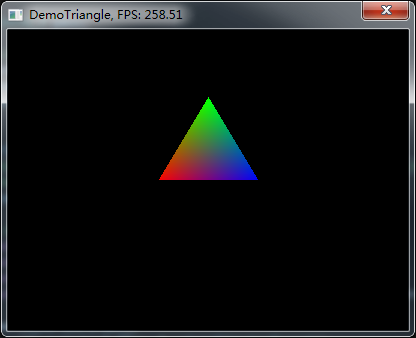
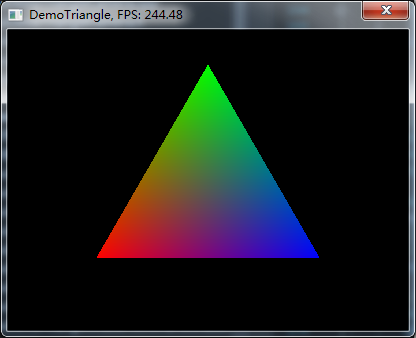
Update wireframe shader.

diff --git a/Demo5TriangleShaderWireframe/YwDemoTriangleShaderWireframeShader.cpp b/Demo5TriangleShaderWireframe/YwDemoTriangleShaderWireframeShader.cpp
@@ -6,6 +6,14 @@
 namespace yw
 {
     // ------------------------------------------------------------------
+    // Constants.
+    const uint32_t infoA[] = { 0, 0, 0, 0, 1, 1, 2 };
+    const uint32_t infoB[] = { 1, 1, 2, 0, 2, 1, 2 };
+    const uint32_t infoAd[] = { 2, 2, 1, 1, 0, 0, 0 };
+    const uint32_t infoBd[] = { 2, 2, 1, 2, 0, 2, 1 };
+    const uint32_t infoEdge0[] = { 0, 2, 0, 0, 0, 0, 2 };
+
+    // ------------------------------------------------------------------
     // Wireframe vertex shader.
 
     // Vertex input format:
@@ -50,13 +58,6 @@ namespace yw
 
     bool DemoTriangleShaderWireframeTriangleShader::Execute(Yw3dShaderRegister* shaderRegister0, Yw3dShaderRegister* shaderRegister1, Yw3dShaderRegister* shaderRegister2)
     {
-        // Constants.
-        const uint32_t infoA[] = { 0, 0, 0, 0, 1, 1, 2 };
-        const uint32_t infoB[] = { 1, 1, 2, 0, 2, 1, 2 };
-        const uint32_t infoAd[] = { 2, 2, 1, 1, 0, 0, 0 };
-        const uint32_t infoBd[] = { 2, 2, 1, 2, 0, 2, 1 };
-        const uint32_t infoEdge0[] = { 0, 2, 0, 0, 0, 0, 2 };
-
         // Get input pos.
         float4 inputPos0 = shaderRegister0[0];
         float4 inputPos1 = shaderRegister1[0];
@@ -219,13 +220,12 @@ namespace yw
     // Shader main entry.
     bool DemoTriangleShaderWireframeDefaultPixelShader::Execute(const Yw3dShaderRegister* input, Vector4& color, float& depth)
     {
-        const float lineWidth = 1.6f;
-        const float fadeDistance = 50.0f;
-        const float patternPeriod = 1.0f;
-
-        const float4 fillColor = float4(0.1f, 0.2f, 0.4f, 1.0f);
-        const float4 wireColor = float4(1.0f, 1.0f, 1.0f, 1.0f);
-        const float4 patternColor = float4(1.0f, 1.0f, 0.5f, 1.0f);
+        const float lineWidth = GetFloat(0);
+        const float fadeDistance = GetFloat(1);
+        const float patternPeriod = GetFloat(2);
+        const float4 fillColor = GetVector(0);
+        const float4 wireColor = GetVector(1);
+        const float4 patternColor = GetVector(2);
 
         // Compute the shortest distance between the fragment and the edges.
         float dist = EvalMinDistanceToEdges(input);
@@ -313,20 +313,12 @@ namespace yw
     // Shader main entry.
     bool DemoTriangleShaderWireframePatternPixelShader::Execute(const Yw3dShaderRegister* input, Vector4& color, float& depth)
     {
-        const float lineWidth = 1.5f;
-        const float fadeDistance = 50;
-        const float patternPeriod = 1.5;
-
-        const float4 fillColor = float4(0.1f, 0.2f, 0.4f, 1.0f);
-        const float4 wireColor = float4(1.0f, 1.0f, 1.0f, 1.0f);
-        const float4 patternColor = float4(1.0f, 1.0f, 0.5f, 1.0f);
-
-        // Constants.
-        const uint32_t infoA[] = { 0, 0, 0, 0, 1, 1, 2 };
-        const uint32_t infoB[] = { 1, 1, 2, 0, 2, 1, 2 };
-        const uint32_t infoAd[] = { 2, 2, 1, 1, 0, 0, 0 };
-        const uint32_t infoBd[] = { 2, 2, 1, 2, 0, 2, 1 };
-        const uint32_t infoEdge0[] = { 0, 2, 0, 0, 0, 0, 2 };
+        const float lineWidth = GetFloat(0);
+        const float fadeDistance = GetFloat(1);
+        const float patternPeriod = GetFloat(2);
+        const float4 fillColor = GetVector(0);
+        const float4 wireColor = GetVector(1);
+        const float4 patternColor = GetVector(2);
 
         // Get input value.
         const float4& inputPos = input[0];

diff --git a/Demo5TriangleShaderWireframe/YwDemoTriangleShaderWireframe.cpp b/Demo5TriangleShaderWireframe/YwDemoTriangleShaderWireframe.cpp
@@ -22,7 +22,10 @@ namespace yw
         m_VertexShader(nullptr),
         m_TriangleShader(nullptr),
         m_DefaultPixelShader(nullptr),
-        m_PatternPixelShader(nullptr)
+        m_PatternPixelShader(nullptr),
+        m_LineWidth(1.7f),
+        m_FadeDistance(50),
+        m_PatternPeriod(1.5f)
     {
     }
 
@@ -72,6 +75,14 @@ namespace yw
         m_TriangleShader = new DemoTriangleShaderWireframeTriangleShader();
         m_DefaultPixelShader = new DemoTriangleShaderWireframeDefaultPixelShader();
         m_PatternPixelShader = new DemoTriangleShaderWireframePatternPixelShader();
+
+        // Set default shader parameters.
+        m_LineWidth = 1.5f;
+        m_FadeDistance = 50.0f;
+        m_PatternPeriod = 1.5f;
+        m_FillColor = Vector4(0.1f, 0.2f, 0.4f, 1.0f);
+        m_WireColor = Vector4(1.0f, 1.0f, 1.0f, 1.0f);
+        m_PatternColor = Vector4(1.0f, 1.0f, 0.5f, 1.0f);
 
         return true;
     }
@@ -123,6 +134,22 @@ namespace yw
 
         // Set viewport matrix to triangle shader.
         m_TriangleShader->SetVector(0, Vector4((float)app->GetWindowWidth(), (float)app->GetWindowHeight(), 0.0f, 0.0f));
+
+        // Set default pixel shader parameters.
+        m_DefaultPixelShader->SetFloat(0, m_LineWidth);
+        m_DefaultPixelShader->SetFloat(1, m_FadeDistance);
+        m_DefaultPixelShader->SetFloat(2, m_PatternPeriod);
+        m_DefaultPixelShader->SetVector(0, m_FillColor);
+        m_DefaultPixelShader->SetVector(1, m_WireColor);
+        m_DefaultPixelShader->SetVector(2, m_PatternColor);
+
+        // Set pattern pixel shader parameters.
+        m_PatternPixelShader->SetFloat(0, m_LineWidth);
+        m_PatternPixelShader->SetFloat(1, m_FadeDistance);
+        m_PatternPixelShader->SetFloat(2, m_PatternPeriod);
+        m_PatternPixelShader->SetVector(0, m_FillColor);
+        m_PatternPixelShader->SetVector(1, m_WireColor);
+        m_PatternPixelShader->SetVector(2, m_PatternColor);
 
         // Set vertex and pixel shader.
         graphics->SetVertexShader(m_VertexShader);

diff --git a/Demo5TriangleShaderWireframe/YwDemoTriangleShaderWireframe.h b/Demo5TriangleShaderWireframe/YwDemoTriangleShaderWireframe.h
@@ -47,6 +47,14 @@ namespace yw
         class DemoTriangleShaderWireframeTriangleShader* m_TriangleShader;
         class DemoTriangleShaderWireframeDefaultPixelShader* m_DefaultPixelShader;
         class DemoTriangleShaderWireframePatternPixelShader* m_PatternPixelShader;
+
+        // Shader parameters.
+        float m_LineWidth;
+        float m_FadeDistance;
+        float m_PatternPeriod;
+        Vector4 m_FillColor;
+        Vector4 m_WireColor;
+        Vector4 m_PatternColor;
     };
 }
 
